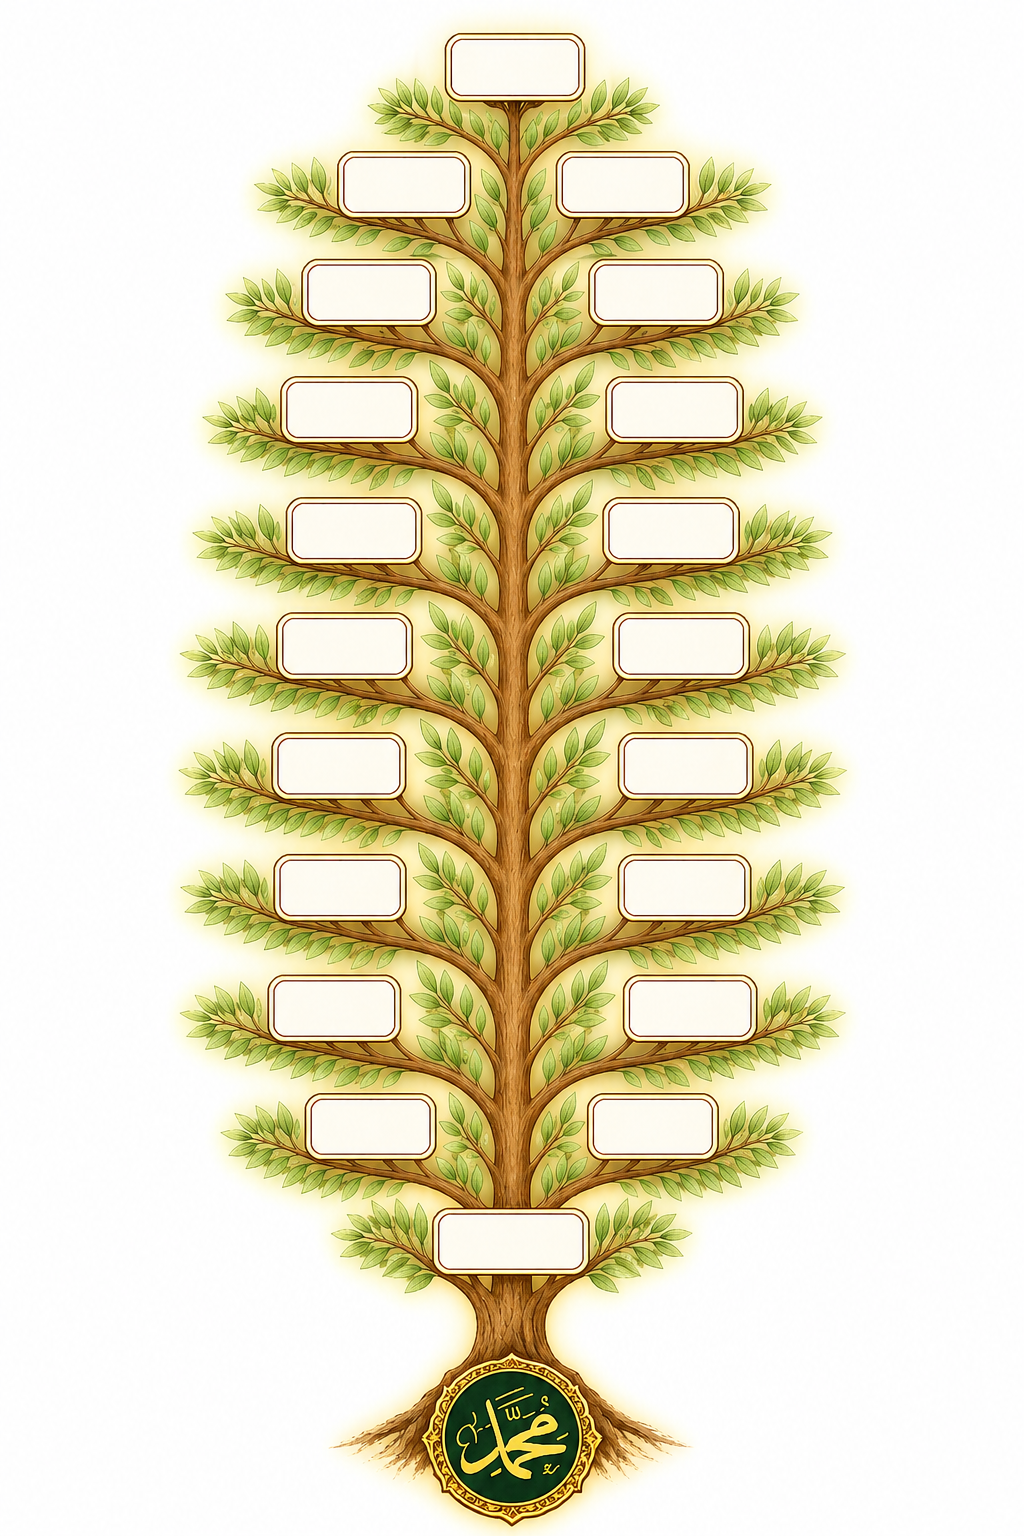
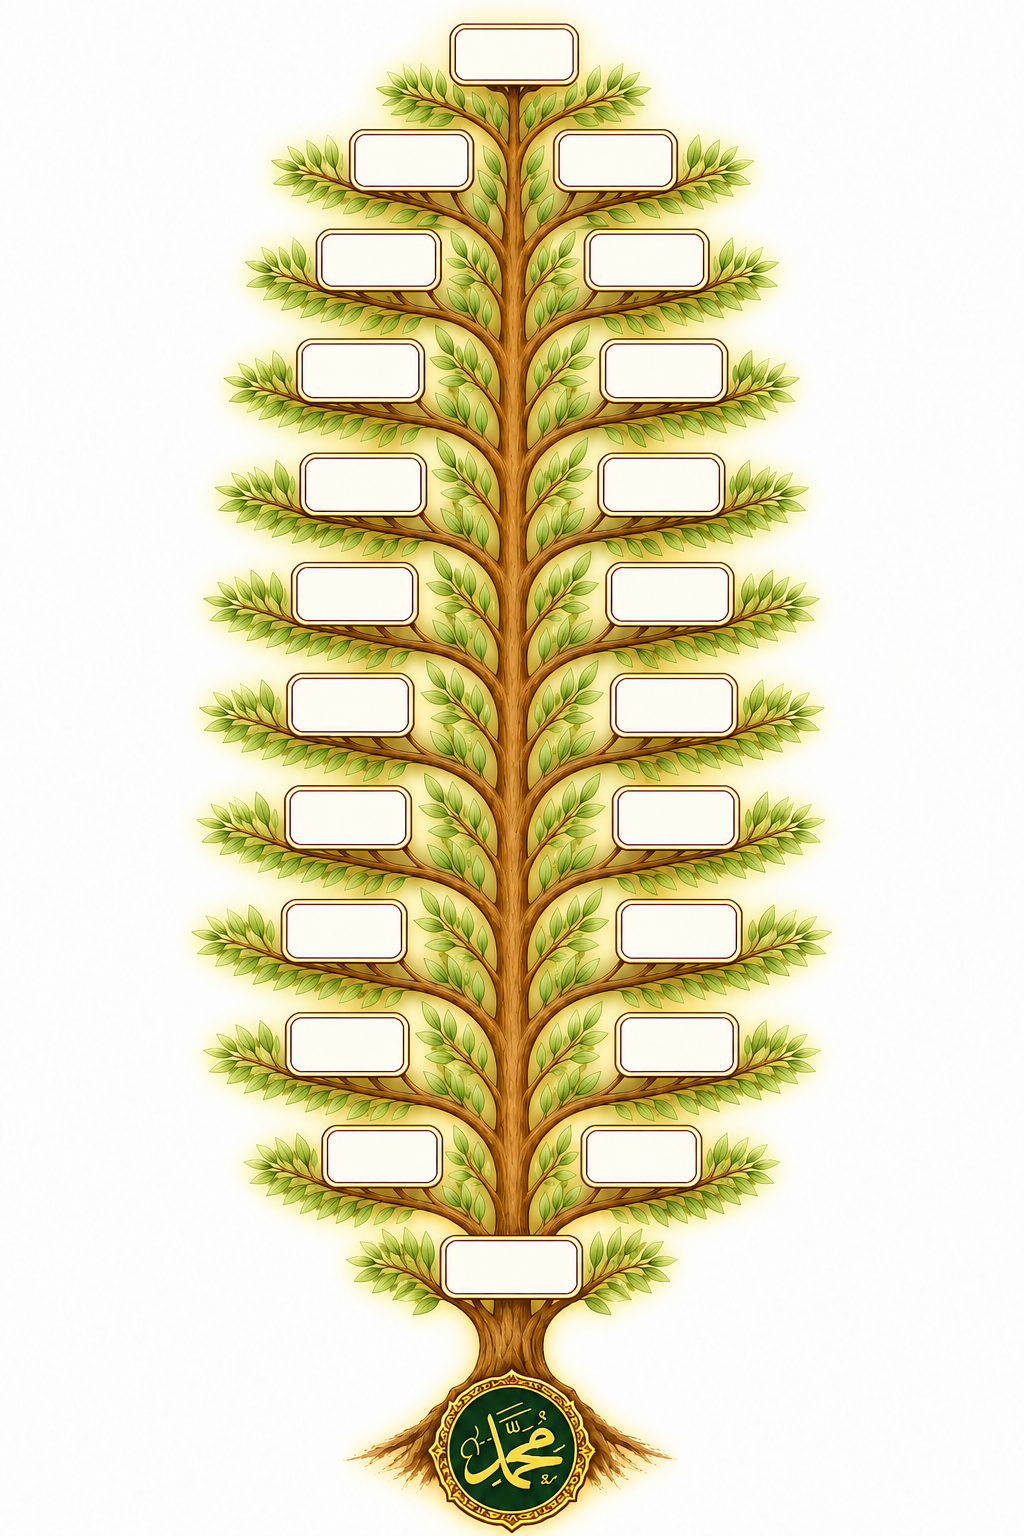
den  andra version av spel

diff --git a/src/app/components/quiz/mohamad-family/mohamad-family.component.ts b/src/app/components/quiz/mohamad-family/mohamad-family.component.ts
@@ -65,8 +65,8 @@ export class MohamadFamilyComponent implements OnInit, OnDestroy {
 
 
 currentLevel: number = 1;
-leftSideNames: string[] = [];
-rightSideNames: string[] = [];
+allGameNames: string[] = [];
+treeSlots: { correctName: string, currentPlacedName: string | null, top: string, left: string }[] = [];
 // تحديث المصفوفة في ملف الـ TS لتشمل الإحداثيات النسبية لكل جد
 levelData: { [key: number]: { name: string, top: string, left: string }[] } = {
   1: [
@@ -82,27 +82,73 @@ levelData: { [key: number]: { name: string, top: string, left: string }[] } = {
   2: [
     // هنا سنضع إحداثيات الـ 16 غصناً للمستوى الثاني متوزعة يميناً ويساراً صعوداً
     { name: 'محمد', top: '71%', left: '43%' },
-    { name: 'عَبْد الله', top: '63%', left: '53%' },
-    { name: 'عَبْد المطلب', top: '63%', left: '31%' },
-    { name: 'هَاشِم', top: '54%', left: '53%' },
-    { name: 'عَبْد مَنَاف', top: '54%', left: '31%' },
-    { name: 'قُصَي',top: '45%', left: '53%'  },
+
+    { name: 'عَبْد الله', top: '63%', left: '59%' },
+    { name: 'عَبْد المطلب', top: '63%', left: '29%' },
+    { name: 'هَاشِم', top: '54%', left: '59%' },
+    { name: 'عَبْد مَنَاف', top: '54%', left: '29%' },
+    { name: 'قُصَي',top: '45%', left: '59%'  },
     { name: 'كِلَاب', top: '45%', left: '29%' },
 
-    { name: 'مُرَّة',top: '36%', left: '53%' },
-    { name: 'كَعْب',  top: '36%', left: '31%' },
+    { name: 'مُرَّة',top: '36%', left: '59%' },
+    { name: 'كَعْب',  top: '36%', left: '29%' },
 
-    { name: 'لُؤَي',top: '26%', left: '53%'  },
-    { name: 'غَالِب', top: '26%', left: '31%' },
+    { name: 'لُؤَي',top: '26%', left: '59%'  },
+    { name: 'غَالِب', top: '26%', left: '29%' },
 
-    { name: 'فِهْر', top: '18%', left: '53%'  },
-    { name: 'مَالِك', top: '18%', left: '31%'},
+    { name: 'فِهْر', top: '18%', left: '59%'  },
+    { name: 'مَالِك', top: '18%', left: '29%'},
 
     { name: 'النَّضْر', top: '10%', left: '53%' },
-    { name: 'كِنَانَة', top:  '10%', left: '31%'  },
+    { name: 'كِنَانَة', top:  '10%', left: '29%'  },
     { name: 'خُزَيْمَة', top: '2%', left: '43%' }
   ],
-  3: [] // سنملأه لاحقاً بنفس الطريقة التراكمية كاملة حتى عدنان
+3: [
+  // 1. المربع الأول الثابت في الأسفل (اسم النبي محمد ﷺ)
+  { name: 'محمد', top: '79%', left: '43%' }, 
+
+  // 2. الصف الثاني (بداية التفرع الثنائي للأجداد)
+  { name: 'عَبْد الله' , top: '72%', left: '56%' },
+  { name: 'عَبْد المطلب' , top: '72%', left: '30.5%' },
+
+  // 3. الصف الثالث
+  { name: 'هَاشِم' , top: '64%', left: '59%' },
+  { name: 'عَبْد مَنَاف' , top: '64%', left: '27%' },
+
+  // 4. الصف الرابع
+  { name:  'قُصَي' , top: '57%', left: '59%' },
+  { name: 'كِلَاب' , top: '57%', left: '27%' },
+
+  // 5. الصف الخامس
+  { name:'مُرَّة'  , top: '50%', left: '59%' },
+  { name: 'كَعْب' , top: '50%', left: '27%' },
+
+  // 6. الصف السادس
+  { name: 'لُؤَي' , top: '43%', left: '58%' },
+  { name: 'غَالِب' , top: '43%', left: '27%' },
+
+  // 7. الصف السابع
+  { name: 'فِهْر' , top: '35%', left: '58%' },
+  { name: 'مَالِك' , top: '35%', left: '27%' },
+
+  // 8. الصف الثامن
+  { name: 'النَّضْر' , top: '29%', left: '58' },
+  { name: 'كِنَانَة' , top: '29%', left: '29%' },
+
+  // 9. الصف التاسع
+  { name: 'خُزَيْمَة' , top: '21%', left: '58%' },
+  { name: 'مُدْرِكَة' , top: '21%', left: '27%' },
+
+  // 10. الصف العاشر
+  { name: 'إِلْيَاس' , top: '14%', left: '58%' },
+  { name: 'مُضَر' , top: '14%', left: '30%' },
+
+  // 11. الصف الحادي عشر
+  { name: 'نِزَار',  top: '7%', left: '53%' },
+  { name:  'مَعَدّ',  top: '7%', left: '34%' },
+  
+  { name: 'عَدْنَان',top: '2%', left: '42%' }, 
+]
 };
 
 
@@ -113,37 +159,26 @@ selectLevel(level: number) {
 }
 
 
-// مصفوفة المربعات الفارغة على الشجرة (سيتم ملؤها برمجياً حسب المستوى)
-// كل مربع يمثل كائن يحتوي على الاسم الصحيح، وهل تمت الإجابة عليه أم لا
-treeSlots: { 
-  correctName: string, 
-  currentPlacedName: string | null, 
-  top: string, 
-  left: string 
-}[] = [];
-// تحديث دالة loadLevel لتهيئ المربعات الفارغة أيضاً
 loadLevel(level: number) {
   const originalSlots = [...this.levelData[level]];
 
-  // 1. بناء المربعات على الشجرة مع الاحتفاظ بإحداثياتها
+  // 1. بناء المربعات على الشجرة
   this.treeSlots = originalSlots.map(slot => ({
     correctName: slot.name,
-    currentPlacedName: slot.name === 'محمد' ? 'محمد ﷺ' : null, // جعل اسم النبي ظاهراً وثابتاً تلقائياً
+    currentPlacedName: slot.name === 'محمد' ? 'محمد ﷺ' : null,
     top: slot.top,
     left: slot.left
   }));
 
-  // 2. تصفية الأسماء المبعثرة (بدون اسم محمد) وعمل Shuffle لها
+  // 2. تصفية الأسماء مبعثرة في مصفوفة واحدة مدمجة وعمل خلط (Shuffle) لها
   let gameNames = originalSlots.filter(s => s.name !== 'محمد').map(s => s.name);
   gameNames.sort(() => Math.random() - 0.5);
 
-  const half = Math.ceil(gameNames.length / 2);
-  this.leftSideNames = gameNames.slice(0, half);
-  this.rightSideNames = gameNames.slice(half);
+  // 3. إسناد الأسماء للمصفوفة الموحدة
+  this.allGameNames = gameNames;
 
   this.cdr.detectChanges();
 }
-
 // 🎚 الدالة بعد التحديث لمنع الإسقاط العشوائي وفرض الترتيب من الأسفل للأعلى
 onNameDropped(event: CdkDragDrop<string[]>, slotIndex: number) {
   const draggedName = event.previousContainer.data[event.previousIndex];

diff --git a/src/app/components/quiz/mohamad-family/mohamad-family.component.css b/src/app/components/quiz/mohamad-family/mohamad-family.component.css
@@ -44,16 +44,6 @@
   box-shadow: 0 4px 8px rgba(0, 0, 0, 0.15);
 }
 
-/* ==========================================================================
-   🎮 ساحة اللعبة الرئيسية والشجرة المتجاوبة
-   ========================================================================== */
-.game-playground {
-  display: flex;
-  align-items: center;
-  justify-content: space-between;
-  gap: 20px;
-  direction: ltr; /* لتوزيع القوائم يميناً ويساراً بالتساوي في الشاشات الكبيرة */
-}
 
 .tree-display-zone {
   position: relative;
@@ -75,23 +65,7 @@
   direction: rtl; /* لكي تظل نصوص الأسماء العربية مرتبة بشكل صحيح */
 }
 
-.draggable-name-card {
-  background: #fdfbf7;
-  border: 2px solid #e5cc7e;
-  padding: 10px;
-  text-align: center;
-  border-radius: 8px;
-  font-weight: bold;
-  box-shadow: 0 4px 6px rgba(0, 0, 0, 0.05);
-  cursor: grab;
-  user-select: none;
-  transition: transform 0.2s;
-}
 
-.draggable-name-card:active {
-  cursor: grabbing;
-  transform: scale(1.05);
-}
 
 /* ==========================================================================
    📱 حماية الميديا وتنسيقات الشاشات (الكمبيوتر والجوال)
@@ -107,10 +81,7 @@
 
 /* شاشات الجوال الذكية (أقل من 768 بكسل) */
 @media (max-width: 768px) {
-  .game-playground {
-    flex-direction: column; /* تحويل القوائم الجانبية لتصبح فوق وتحت الشجرة */
-  }
-  
+
   .names-sidebar {
     flex-direction: row; /* جعل الأسماء تترتب أفقياً بجانب بعضها لتوفر مساحة */
     flex-wrap: wrap;
@@ -245,4 +216,100 @@
   /* 16: خُزَيْمَة */
   .lvl-2 .tree-drop-slot:nth-child(16) { top: 2.5% !important; left: 45% !important; }
 
+}
+
+
+/* 🖥 التنسيق الافتراضي للشاشات الكبيرة */
+.game-playground {
+  display: flex;
+  flex-direction: column; /* ترتيب عمودي بشكل عام */
+  align-items: center;
+  gap: 20px;
+  position: relative;
+}
+
+/* حاوية الأسماء الموحدة في الشاشات الكبيرة تفرش الكروت بشكل متناسق */
+.names-pool-container {
+  display: flex;
+  flex-wrap: wrap;
+  justify-content: center;
+  gap: 12px;
+  width: 100%;
+  max-width: 900px;
+  background: rgba(255, 255, 255, 0.6);
+  padding: 15px;
+  border-radius: 12px;
+  border: 1px solid #e0e0e0;
+}
+
+.draggable-name-card {
+  padding: 8px 16px;
+  background: #fff;
+  border: 2px solid #d4af37;
+  border-radius: 20px;
+  cursor: grab;
+  font-weight: bold;
+  box-shadow: 0 4px 6px rgba(0,0,0,0.05);
+  user-select: none;
+}
+
+.draggable-name-card:active {
+  cursor: grabbing;
+}
+
+/* ---------------------------------------------------- */
+/* 📐 التغيير الذكي عند شاشات 900 بكسل وأقل (الموبايل والتابلت) */
+/* ---------------------------------------------------- */
+@media (max-width: 900px) {
+  
+  .game-playground {
+    flex-direction: column; /* يضمن بقاء القائمة فوق والشجرة تحت */
+  }
+
+  .names-pool-container {
+    order: -1; /* ⬅ هذا السحر يجبر قائمة الأسماء أن تطير وتصبح أول عنصر في الأعلى دائماً */
+    position: sticky;
+    top: 10px; /* تظل مثبتة في الأعلى أثناء التمرير لو كانت الشجرة طويلة */
+    zIndex: 100;
+    max-height: 150px;
+    overflow-y: auto; /* إذا كانت الكروت كثيرة في المستوى الثاني تظهر سكرول صغير مريح */
+    box-shadow: 0 4px 10px rgba(0,0,0,0.1);
+  }
+
+  .draggable-name-card {
+    padding: 6px 12px;
+    font-size: 12px; /* تصغير الكروت قليلاً لتناسب أصابع الأطفال */
+  }
+}
+
+@media (max-width: 900px) {
+
+  /* 1⃣ تصغير أزرار اختيار المستويات (Level Selection) */
+  /* استبدلي .level-btn بالاسم الفعلي لكلاس الأزرار لديكِ إذا كان مختلفاً */
+  .level-btn { 
+    padding: 6px 10px !important;
+    font-size: 11px !important;
+    min-width: auto !important;
+    border-radius: 15px !important;
+  }
+
+  /* 2⃣ تصغير كروت الأسماء المبعثرة في الأعلى لتقليل المساحة العمودية */
+  .names-pool-container {
+    padding: 10px !important; /* تقليل الحشو الداخلي للحاوية البيضاء */
+    gap: 8px !important;       /* تقليل المسافة بين الكروت */
+  }
+
+  .draggable-name-card {
+    padding: 4px 10px !important; /* جعل الكرت أنحف */
+    font-size: 11px !important;    /* تصغير الخط ليناسب الحجم الجديد */
+    border-radius: 12px !important;
+  }
+  
+}
+@media (max-width: 900px) {
+  .lvl-3 .tree-drop-slot {
+    width: 14% !important;   /* العرض المثالي للمستطيل */
+    height: 2.8% !important; /* الارتفاع المثالي ليصبح نحيفاً */
+    border-radius: 6px !important;
+  }
 }

diff --git a/src/app/components/quiz/mohamad-family/mohamad-family.component.html b/src/app/components/quiz/mohamad-family/mohamad-family.component.html
@@ -69,50 +69,40 @@
     </app-zoom-controls>
 
     <div class="game-zone-wrapper" cdkDropListGroup> <div class="levels-container">
-    <button [class.active-lvl]="currentLevel === 1" (click)="selectLevel(1)">المستوى الأول (سهل)</button>
-    <button [class.active-lvl]="currentLevel === 2" (click)="selectLevel(2)">المستوى الثاني (متوسط)</button>
-    <button [class.active-lvl]="currentLevel === 3" (click)="selectLevel(3)">المستوى الثالث (متقدم)</button>
+    <button [class.active-lvl]="currentLevel === 1" (click)="selectLevel(1)">المستوى الأول</button>
+    <button [class.active-lvl]="currentLevel === 2" (click)="selectLevel(2)">المستوى الثاني</button>
+    <button [class.active-lvl]="currentLevel === 3" (click)="selectLevel(3)">المستوى الثالث</button>
   </div>
 
  <div class="game-playground" [class.lvl-2]="currentLevel === 2">
+  
+  <div class="names-pool-container" cdkDropList [cdkDropListData]="allGameNames">
+    <div class="draggable-name-card" *ngFor="let name of allGameNames" cdkDrag>
+      {{ name }}
+    </div>
+  </div>
+
+  <div class="tree-display-zone">
+    <img [src]="'images/play-images/mohamad-family-level-' + currentLevel + '.png'" class="tree-bg-image" alt="شجرة النسب">
     
-    <div class="names-sidebar right-sidebar" 
-         cdkDropList 
-         [cdkDropListData]="leftSideNames">
-      <div class="draggable-name-card" *ngFor="let name of leftSideNames" cdkDrag>
-        {{ name }}
+    <div class="absolute-slots-container">
+      <div class="tree-drop-slot" 
+           *ngFor="let slot of treeSlots; let i = index"
+           [style.top]="slot.top"
+           [style.left]="slot.left"
+           [class.static-prophet]="slot.correctName === 'محمد'"
+           cdkDropList
+           [cdkDropListDisabled]="slot.correctName === 'محمد'"
+           (cdkDropListDropped)="onNameDropped($event, i)">
+        
+        <span class="placed-name">
+          {{ slot.correctName === 'محمد' ? slot.currentPlacedName : (slot.currentPlacedName || '') }}
+        </span>
       </div>
     </div>
-
-    <div class="tree-display-zone">
-      <img [src]="'images/play-images/mohamad-family-level-' + currentLevel + '.png'" class="tree-bg-image" alt="شجرة النسب">
-      
-     <div class="absolute-slots-container">
-  <div class="tree-drop-slot" 
-       *ngFor="let slot of treeSlots; let i = index"
-       [style.top]="slot.top"
-       [style.left]="slot.left"
-       [class.static-prophet]="slot.correctName === 'محمد'"
-       cdkDropList
-       [cdkDropListDisabled]="slot.correctName === 'محمد'"
-       (cdkDropListDropped)="onNameDropped($event, i)">
-    
-    <span class="placed-name">
-      {{ slot.correctName === 'محمد' ? slot.currentPlacedName : (slot.currentPlacedName || '') }}
-    </span>
   </div>
+
 </div>
-    </div>
-
-    <div class="names-sidebar left-sidebar" 
-         cdkDropList 
-         [cdkDropListData]="rightSideNames">
-      <div class="draggable-name-card" *ngFor="let name of rightSideNames" cdkDrag>
-        {{ name }}
-      </div>
-    </div>
-
-  </div>
 </div>
 
 </div>
